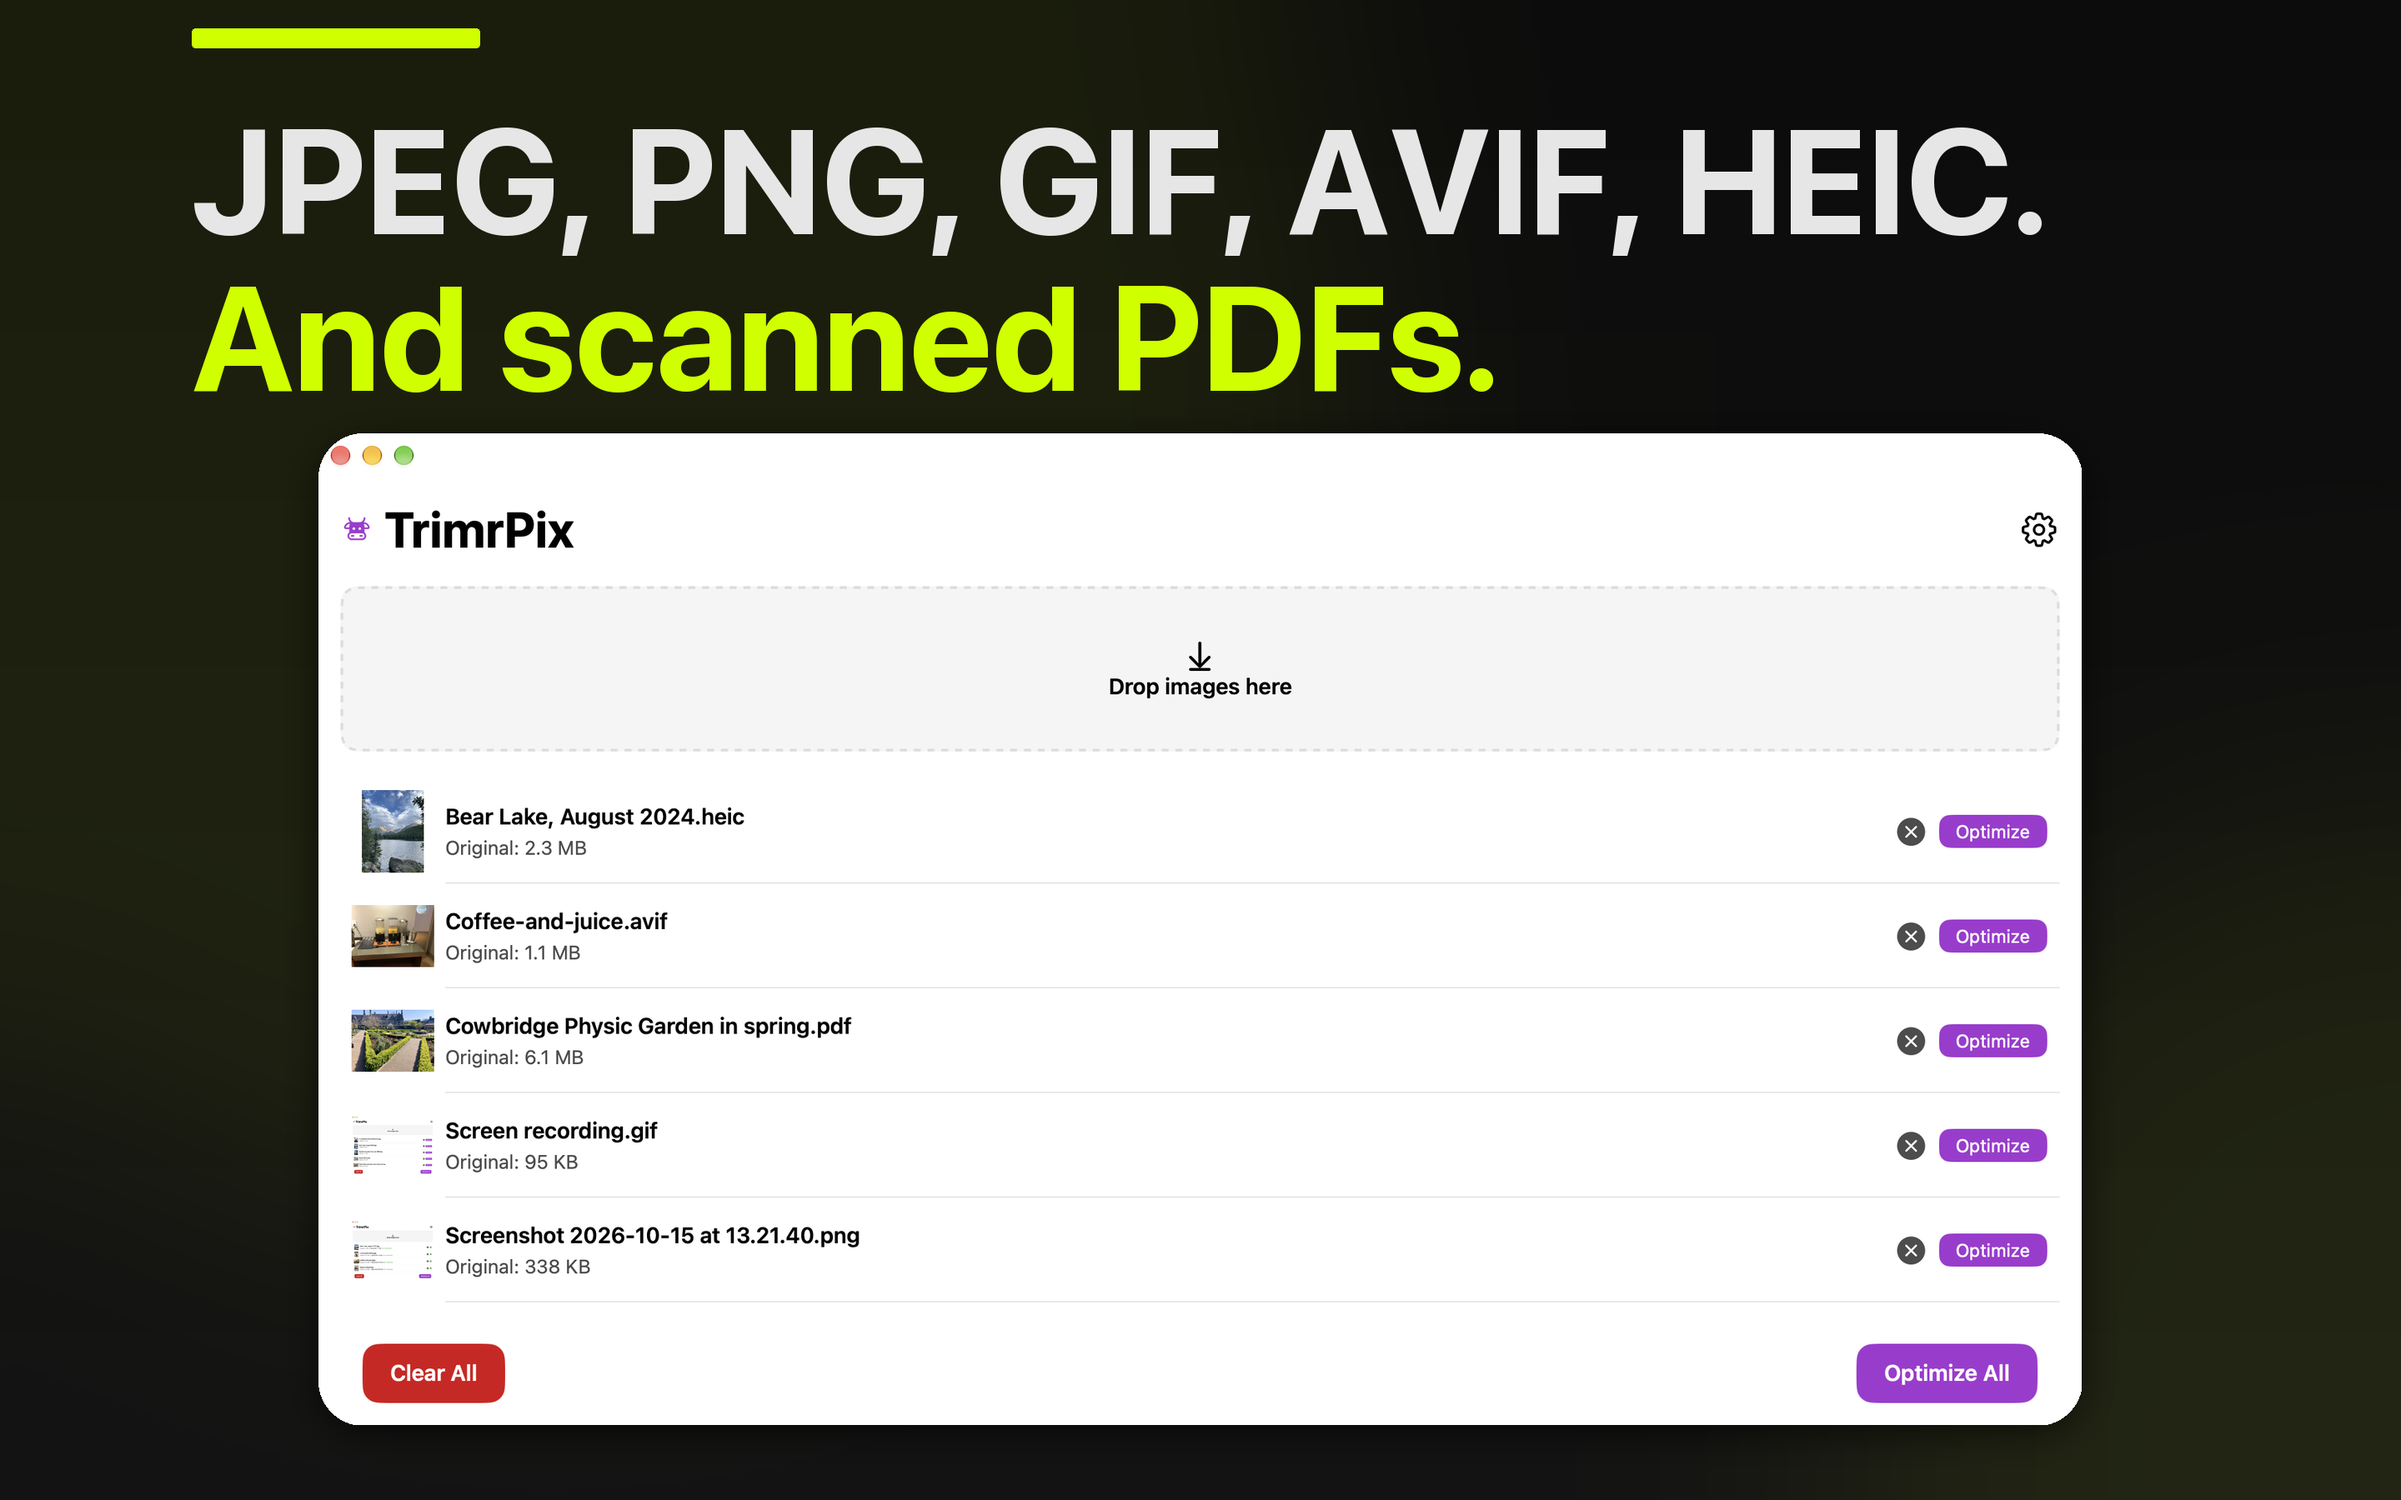
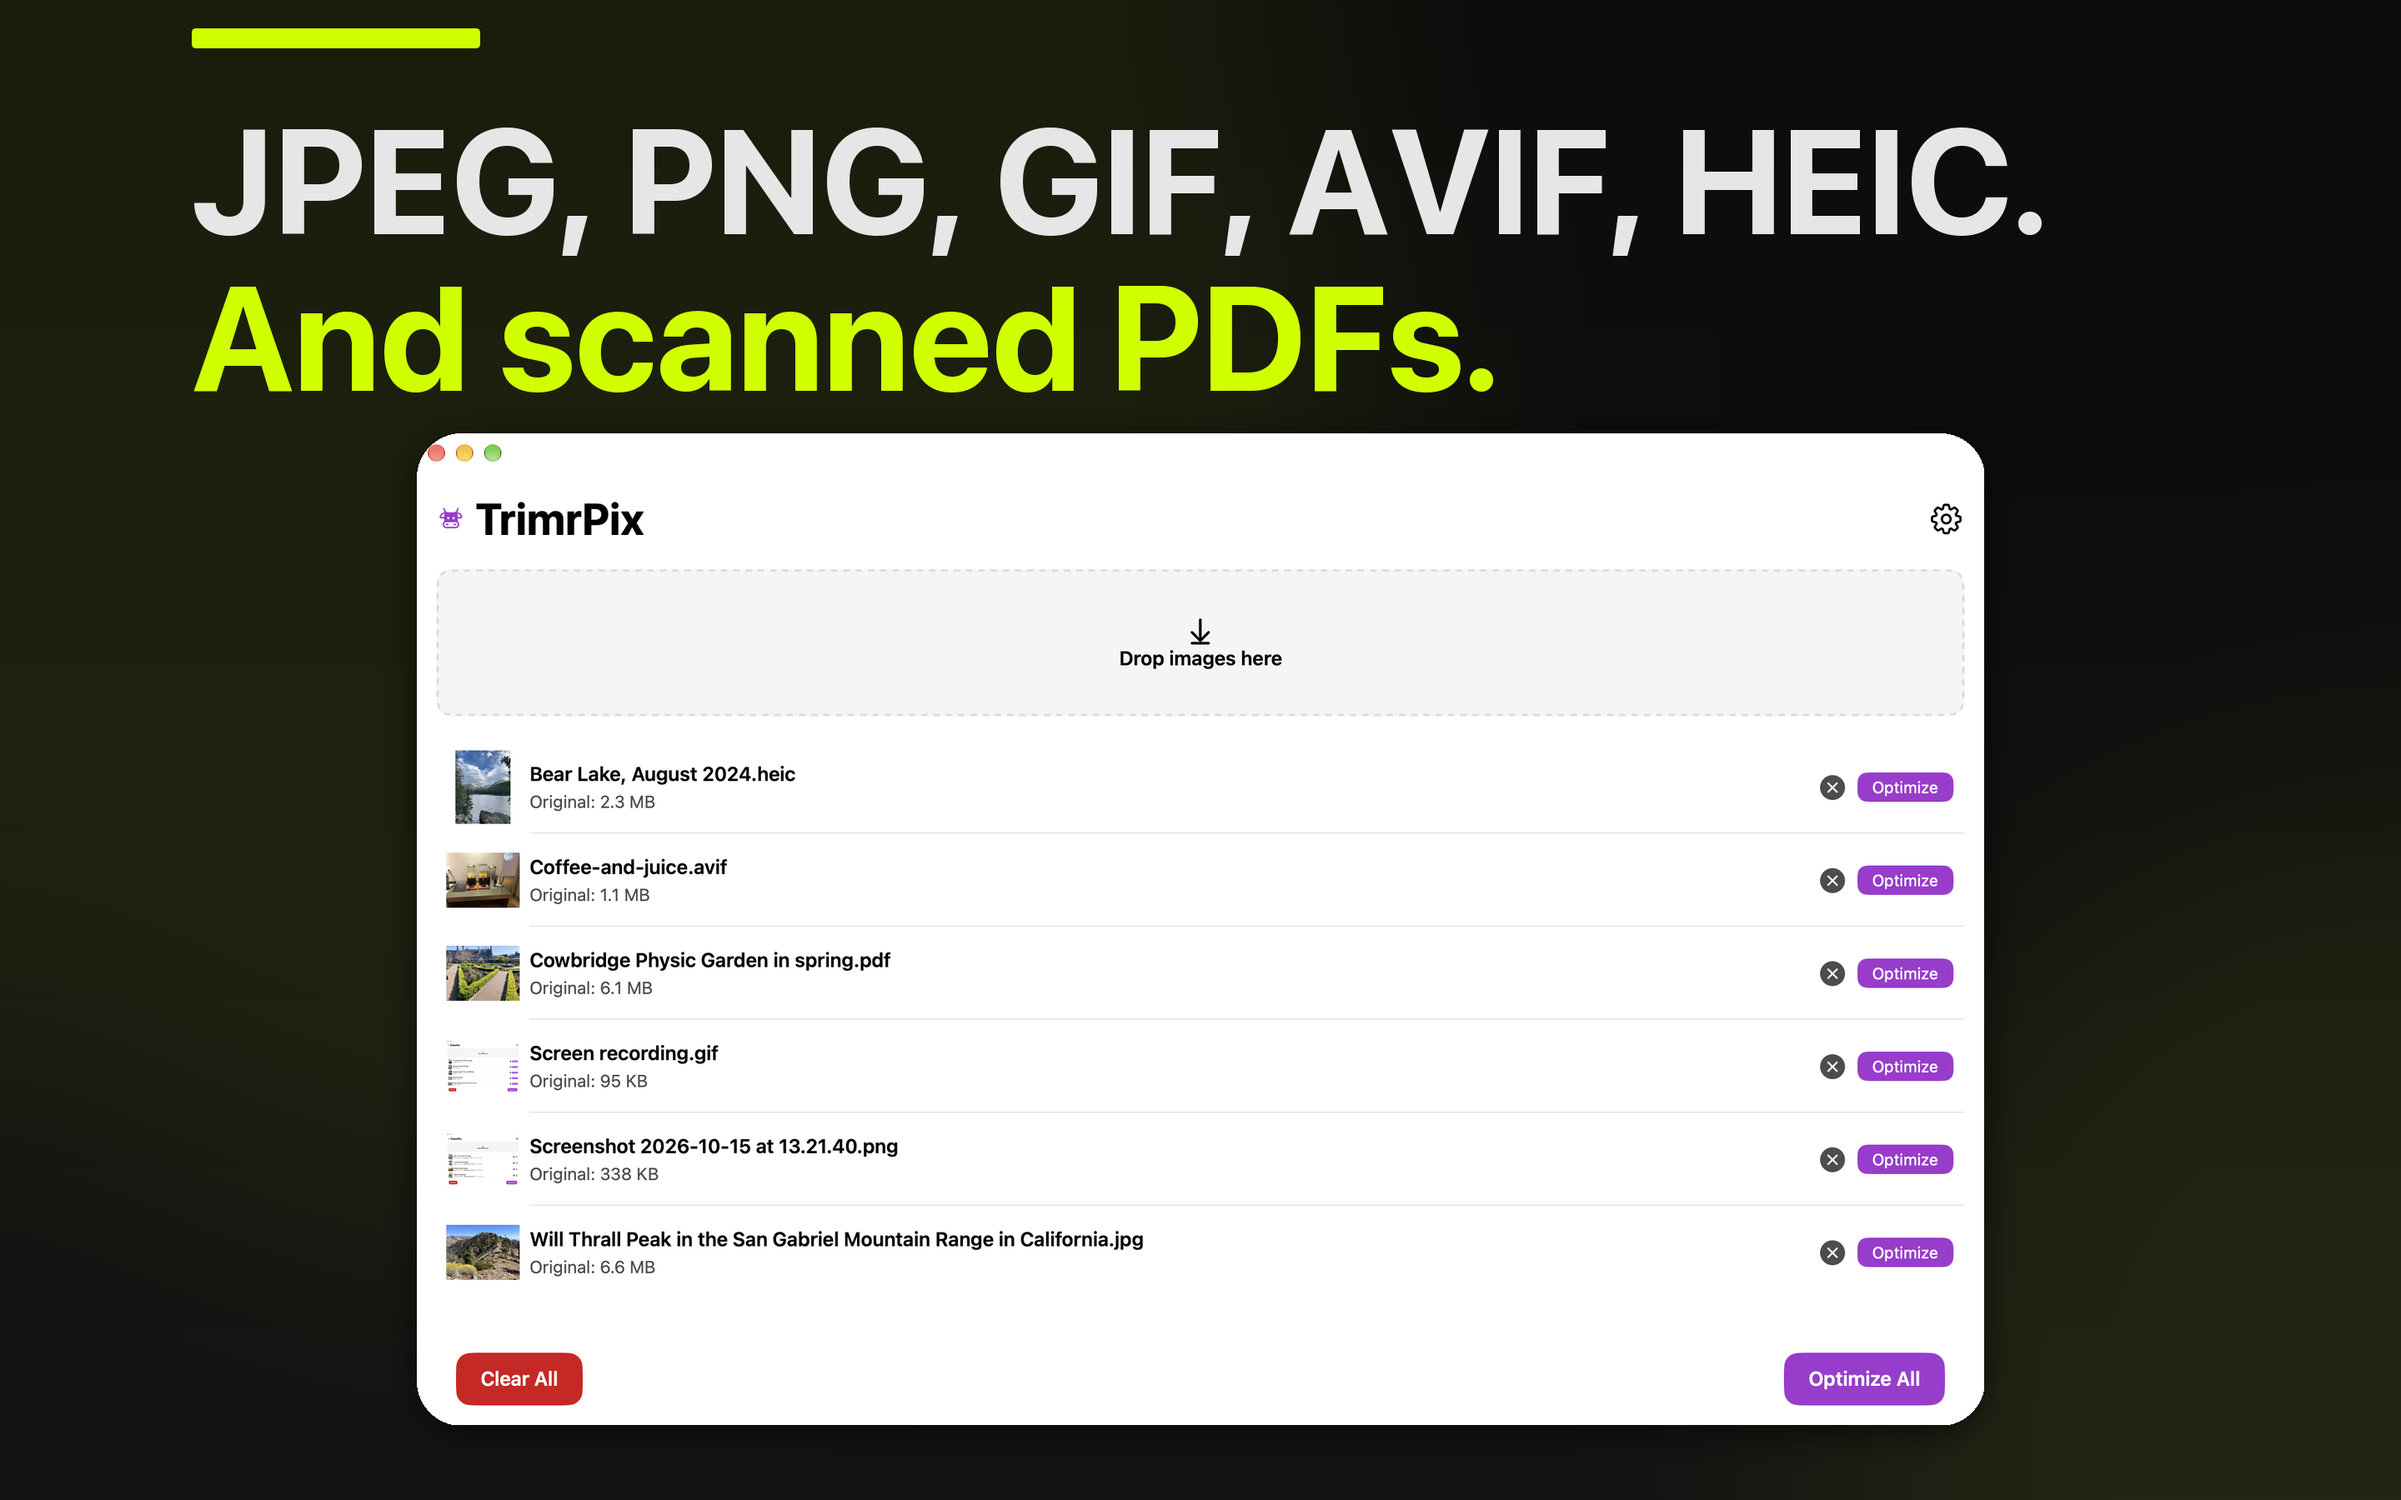
store: posters 1 and 4 show all six files (#94)
The hub's review: poster 4's caption names JPEG first, but the JPEG was the sixth row and
scrolled out of view; poster 1 showed five of its six photos. Both are captured again in
a 1280 x 810 window, which holds six rows, and composed with the same manifest. Posters
2 and 3 are unchanged, byte for byte.

Changed region(s): [[0.125, 0.28, 0.4688, 0.9644], [0.7188, 0.28, 0.875, 0.9644], [0.4688, 0.4356, 0.5312, 0.4667]]

diff --git a/appstore/README.md b/appstore/README.md
@@ -16,8 +16,9 @@ down from), RGB without alpha, and `listing.md`.
 ## The captures
 
 Taken with the capture mode in Debug builds (`TrimrPix/ScreenshotMode.swift`, #88), on the
-site's sample of CC0 iPhone photos (`tools/redesign/fetch_sample.py`). The window is 1280 × 720
-points at 2x, light, and active. The usage, including the build without the sandbox it needs to
+site's sample of CC0 iPhone photos (`tools/redesign/fetch_sample.py`), light, active and at 2x.
+The window is 1280 × 810 points for 1 and 4, tall enough to show all six files without scrolling,
+and 1280 × 720 for 2 and 3, where the Settings sheet is the subject. The usage, including the build without the sandbox it needs to
 read a folder, is at the top of `ScreenshotMode.swift`. The four states:
 
 1. Six photos after Optimize All, at Medium, resized to 2048 px (`-screenshotOptimize YES
